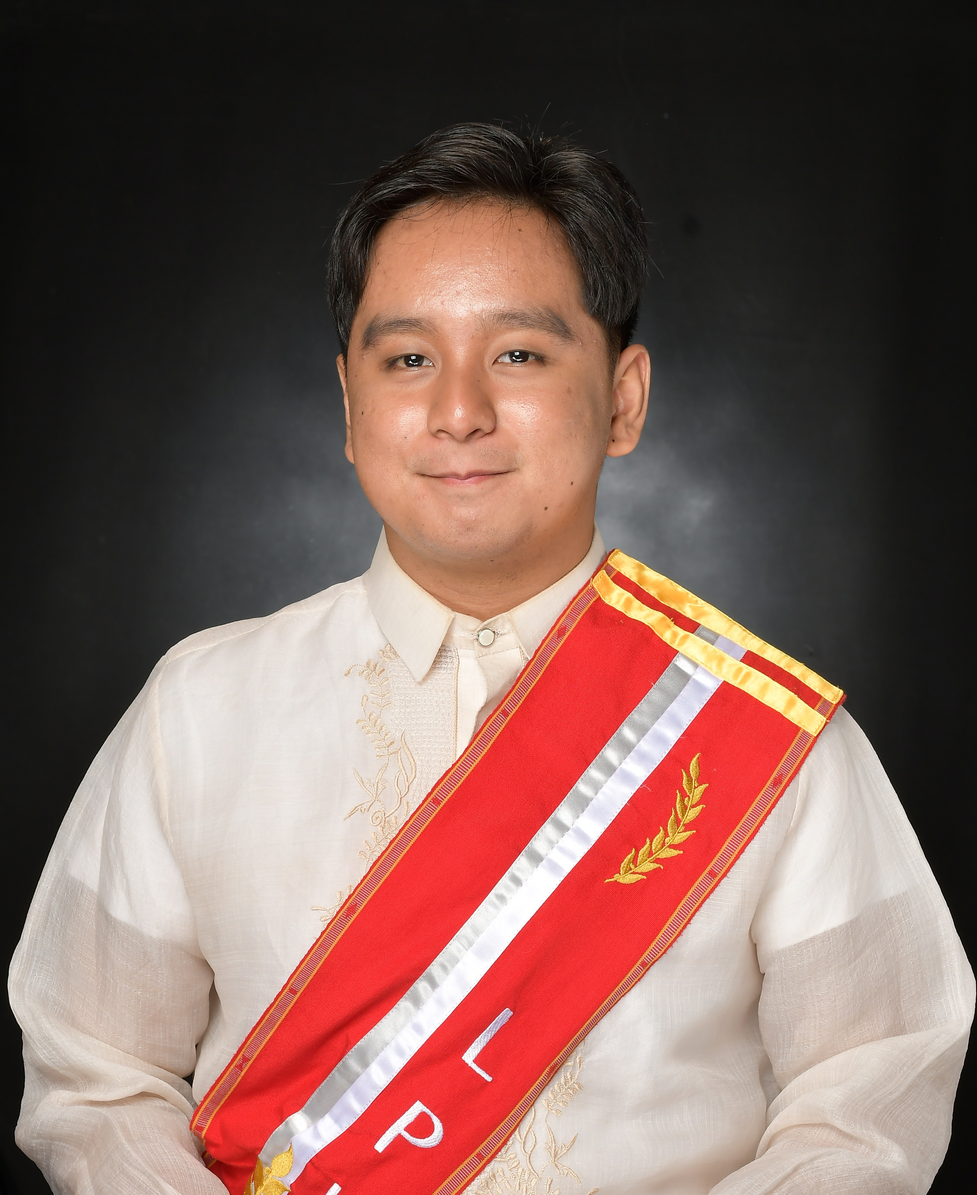
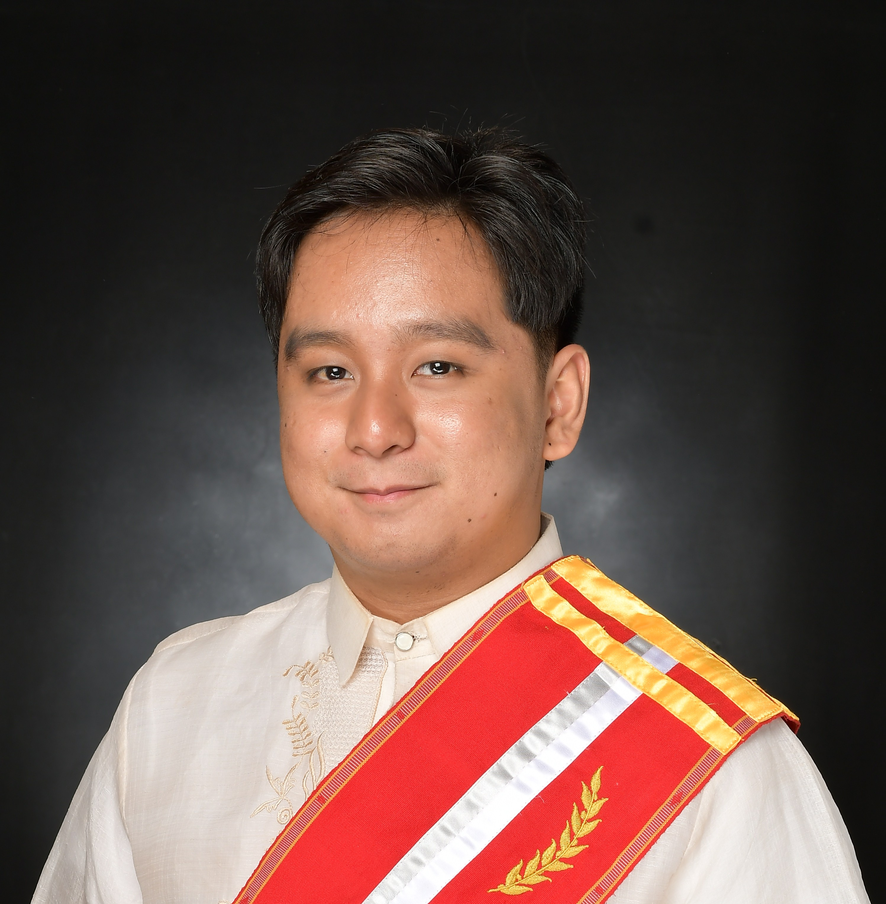
modified project cards

diff --git a/src/app/projects/projects.component.html b/src/app/projects/projects.component.html
@@ -31,12 +31,12 @@
       <ng-container *ngFor="let project of allProjects">
         <a [href]="project.repoLink" target="_blank" rel="noopener noreferrer">
           <div
-            class="flex flex-col sm:flex-row gap-3 items-center w-full bg-gray-300 cursor-pointer rounded-md p-3"
+            class="flex flex-col sm:flex-row gap-3 items-center w-full bg-gray-50 cursor-pointer rounded-md p-3"
             data-aos="flip-left"
             data-aos-duration="1000"
           >
             <img
-              class="w-20 h-20 p-1 bg-white rounded-md"
+              class="w-20 h-20 p-1 rounded-md"
               [src]="project.iconLink"
             />
 
@@ -46,16 +46,17 @@
               <p class="font-semibold mt-1">Technologies Used:</p>
 
               <div class="flex justify-center sm:justify-start">
-                <div
-                  class="flex flex-wrap gap-2 justify-center bg-white rounded-md w-fit px-3 py-1"
-                >
+                <div class="flex flex-wrap gap-2 rounded-md w-fit px-3 py-1">
                   <ng-container *ngFor="let tech of project.technologies">
-                    <img
-                      [src]="tech.image"
-                      class="w-7 h-7"
-                      [alt]="tech.name"
-                      [title]="tech.name"
-                    />
+                    <div class="flex items-center gap-1 bg-gray-200 rounded-md p-1">
+                      <p>{{ tech.name }}</p>
+                      <img
+                        [src]="tech.image"
+                        class="w-7 h-7"
+                        [alt]="tech.name"
+                        [title]="tech.name"
+                      />
+                    </div>
                   </ng-container>
                 </div>
               </div>

diff --git a/src/app/intro/intro.component.html b/src/app/intro/intro.component.html
@@ -26,11 +26,16 @@
       data-aos-duration="1000"
     >
       <div
-        class="h-100 max-w-100 p-5 border-1 border-gray-600 rounded-full relative mt-20 lg:mt-5"
+        class="aspect-square min-w-70 w-full max-w-100 border-1 border-gray-600 rounded-full relative group"
       >
         <img
           src="/images/formal.JPG"
-          class="w-full h-full rounded-full object-cover object-top"
+          class="w-full h-full rounded-full absolute top-0 left-0 object-cover object-top z-1 group-hover:opacity-0 transition-opacity duration-300 ease-in-out"
+          alt="Profile picture"
+        />
+        <img
+          src="/images/sablay.JPG"
+          class="w-full h-full rounded-full absolute top-0 left-0 object-cover object-top transition-opacity duration-300 ease-in-out"
           alt="Profile picture"
         />
       </div>
